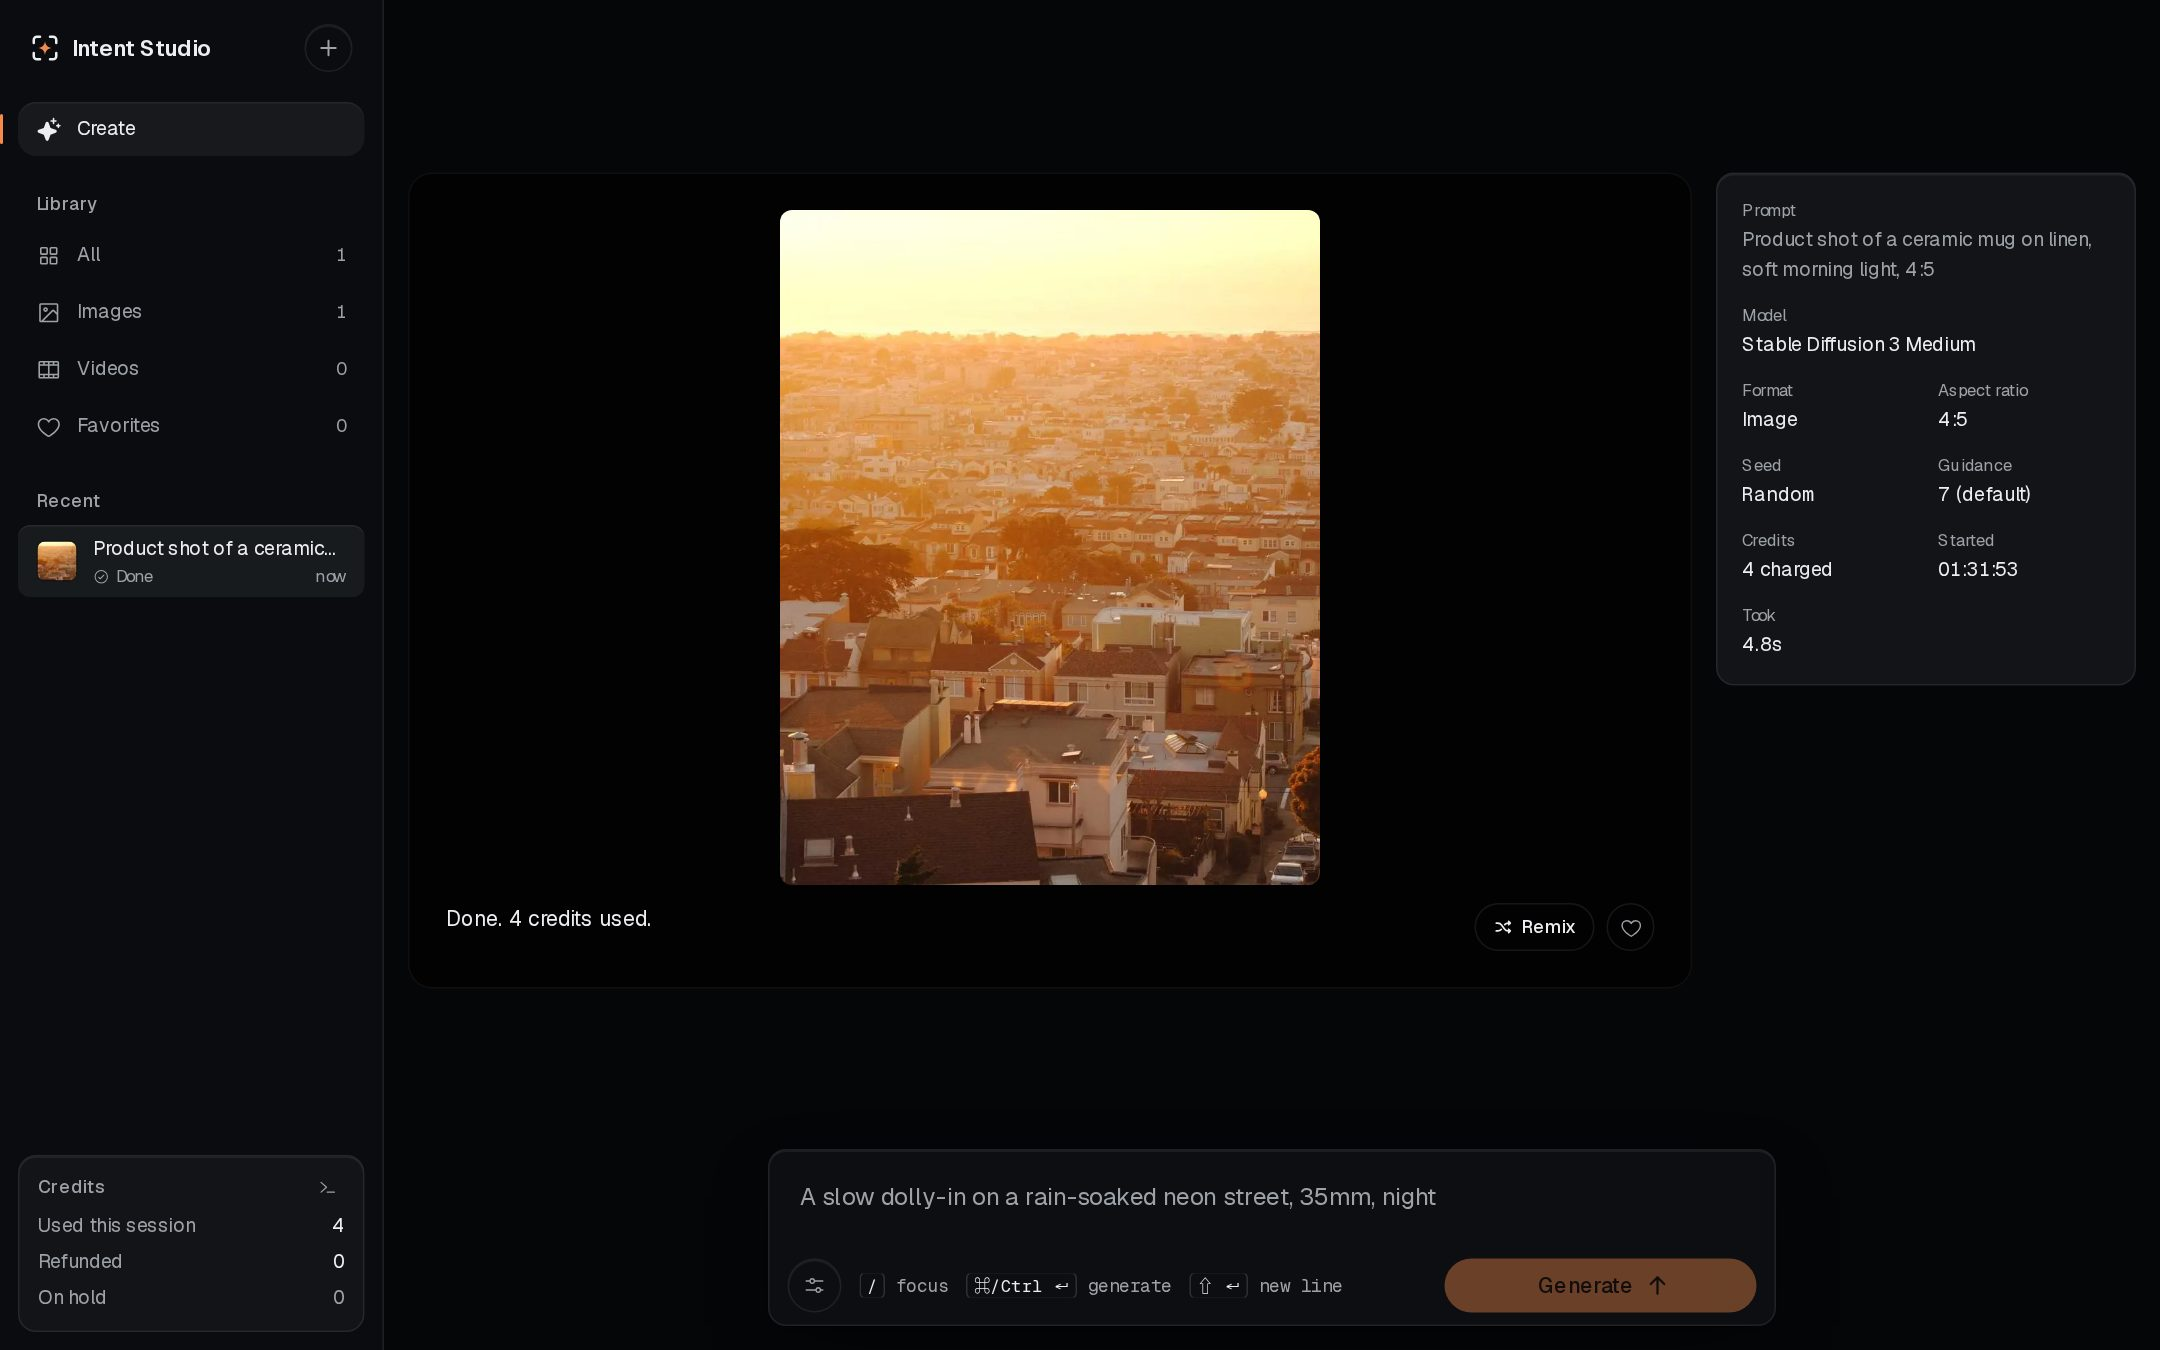
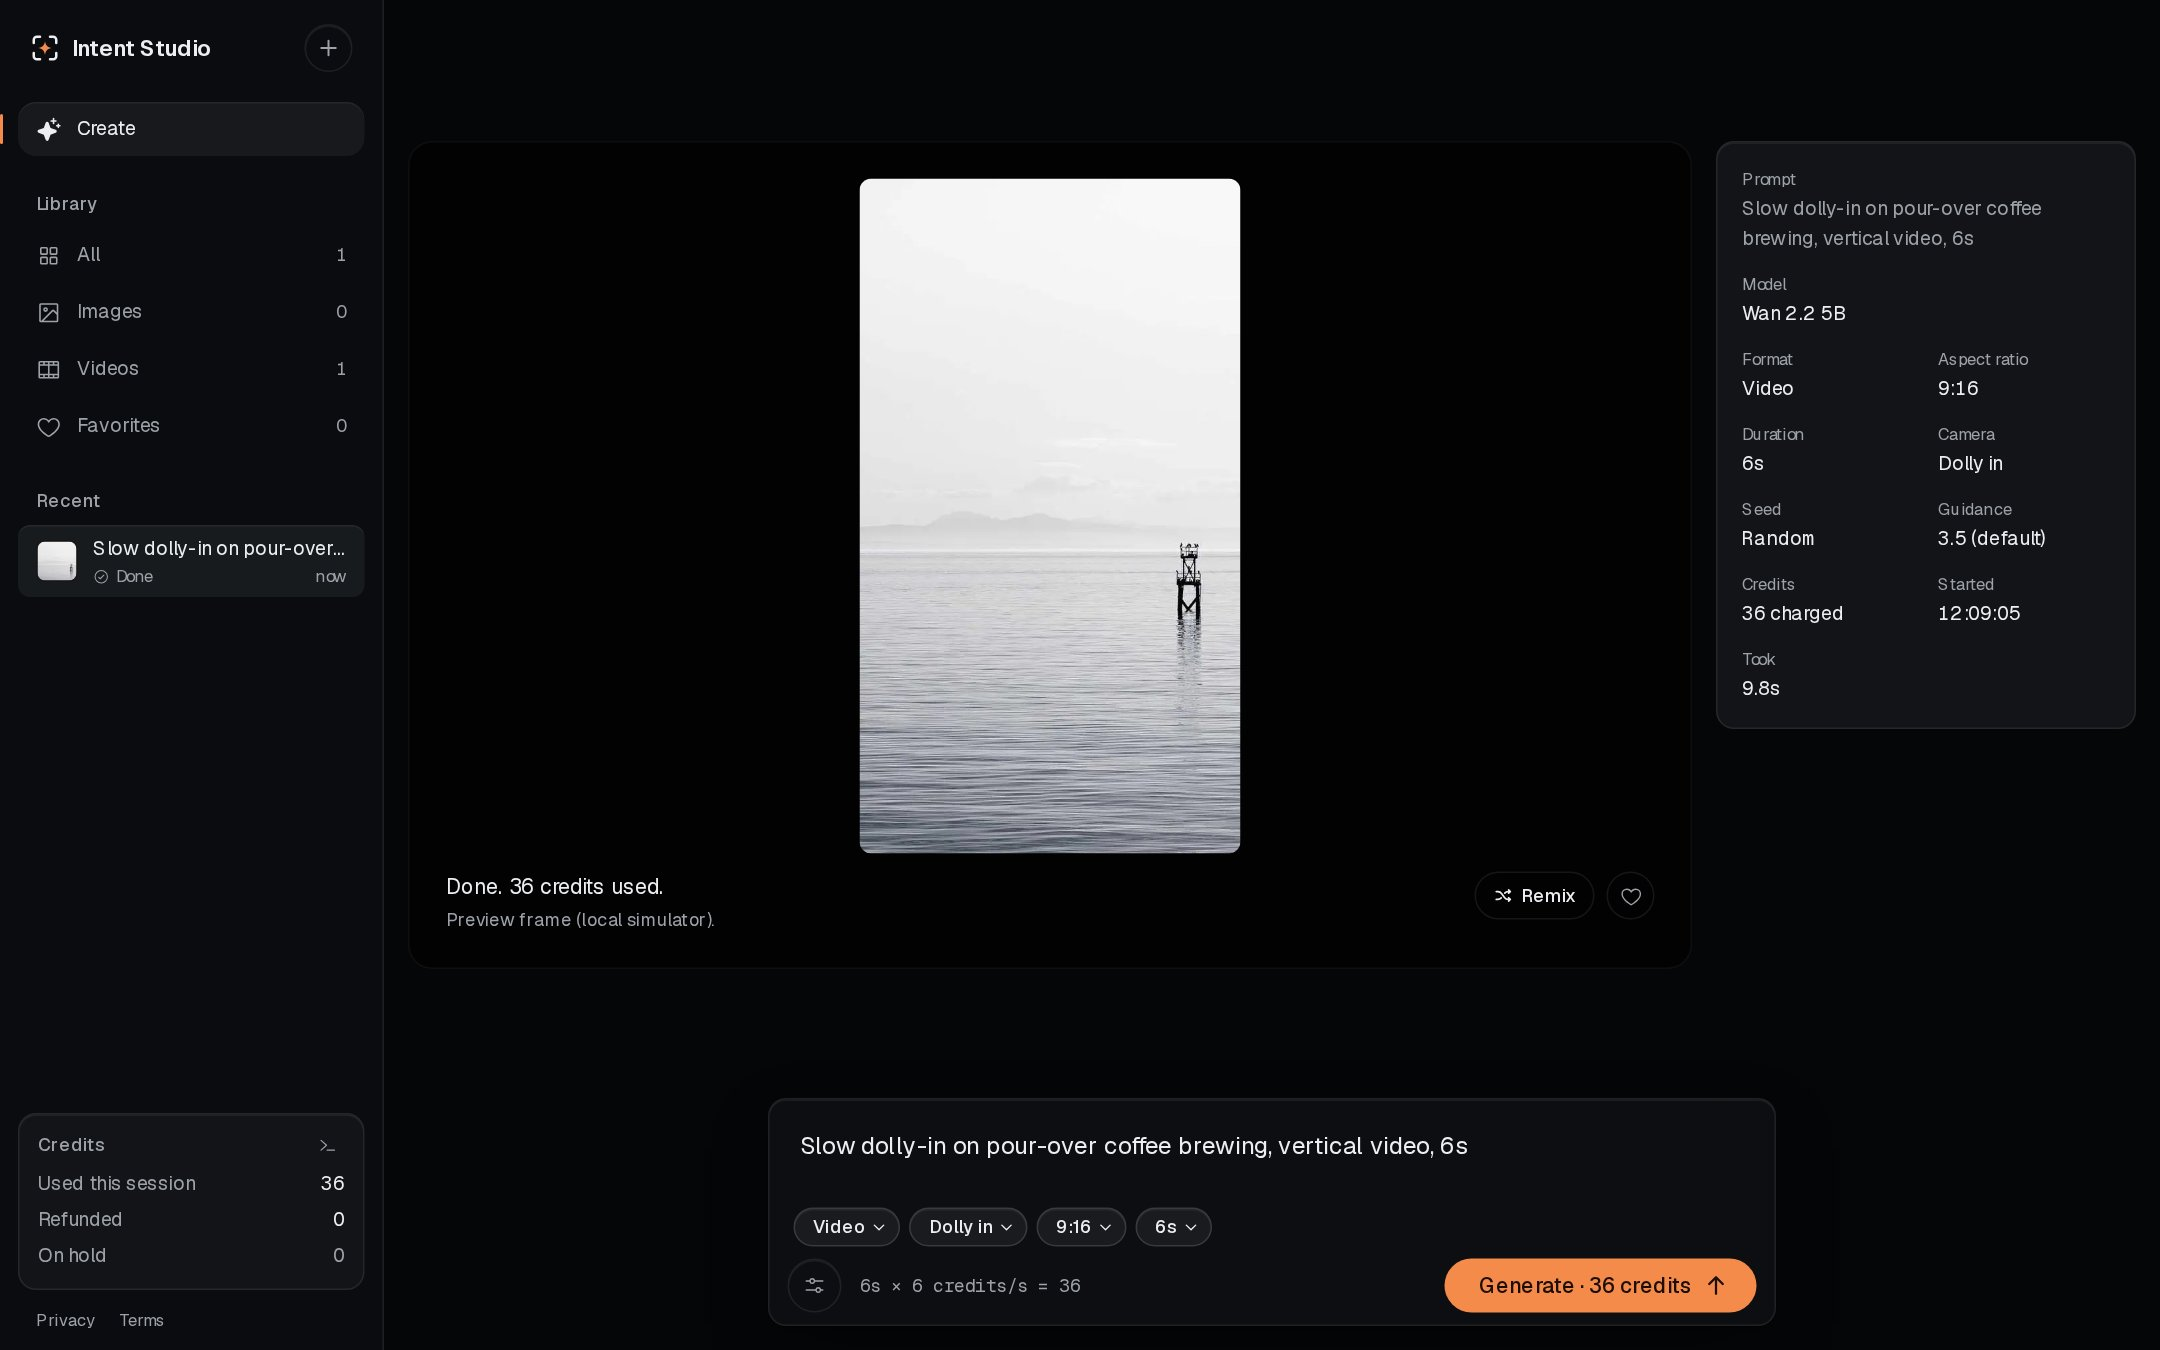
docs: refresh README and screenshots
Retake the studio and run screenshots from the current UI (guest, local
mode) and bring the README in line with the code: the security-definer
merge, Google account-conflict sign-in, the remote and sign-in test suites,
legal pages, dev log and WebP presets.

diff --git a/README.md b/README.md
@@ -159,7 +159,7 @@ sequenceDiagram
 ```
 
 - **Upgrade in place.** A guest *links* Google or an email to their anonymous user. The user id doesn't change, so history, balance and start frames carry over with no data migration and no RLS change.
-- **Existing accounts.** Signing in to an account that already exists switches users. The guest's *finished* runs move across via `merge_anonymous_history`; **credits never move**, and runs still holding credits settle with the guest, so a merge can't launder a refund.
+- **Existing accounts.** Signing in to an account that already exists switches users. When linking Google reports the account already exists (`email_exists`, `identity_already_exists`, `user_already_exists`), the guest signs in to it instead, at most once per 5 minutes. The guest's *finished* runs move across via `merge_anonymous_history`; **credits never move**, and runs still holding credits settle with the guest, so a merge can't launder a refund.
 - **Credits.** Guests start with **8**. A permanent account receives **40 exactly once** in its life (`signup_grant_at`), whether it signed up directly or upgraded from a guest.
 - **Privacy on shared devices.** The offline history cache records which account owns it; a different account or a sign-out clears it before anything renders, and replies sent as a previous account are dropped.
 
@@ -173,6 +173,7 @@ sequenceDiagram
 | IDOR on cancel | Ownership checked in the route **and** inside `cancel_generation(id, user)` | `[id]/cancel/route.ts` |
 | Direct table writes | No write policies; `INSERT/UPDATE/DELETE` revoked from `anon` and `authenticated` | `…_security_hardening.sql` |
 | Privileged functions from the browser | `EXECUTE` granted only to `service_role`; `search_path = ''` | all migrations |
+| Reading `auth.users` during a merge | `merge_anonymous_history` is `SECURITY DEFINER` (hosted `service_role` can't read `auth`), callable by `service_role` only, every name schema-qualified | `…_merge_security_definer.sql` |
 | Credit farming | 8-credit guests, a once-per-account 40 grant, history-only merges, 3 active runs per user | `…_accounts.sql` |
 | Forged merge | Server verifies both tokens with the auth server; source must be anonymous, target permanent | `/api/account/merge` |
 | Request flooding | 15 writes / 10 min per user **and** per IP, stored in Postgres, fails closed, `429` + `Retry-After` | `rate_limit_hit` |
@@ -255,8 +256,9 @@ npm run build
 
 | Suite | What it proves |
 |---|---|
-| `lib/db.test.ts` | Applies the **real migrations** to PGlite (Postgres in WASM) with stubbed Supabase schemas. Holds, exactly-once settlement, the status/credit constraint, the stale sweep, batches, the active-run cap, rate limits, storage policies and quota, the 402 fallback refund, RLS for cross-user reads/writes/RPCs, the 8/40 grants, and history-only merges. No Docker, no network. |
+| `lib/db.test.ts` | Applies the **real migrations** to PGlite (Postgres in WASM) with stubbed Supabase schemas. Holds, exactly-once settlement, the status/credit constraint, the stale sweep, batches, the active-run cap, rate limits, storage policies and quota, the 402 fallback refund, RLS for cross-user reads/writes/RPCs, the 8/40 grants, and history-only merges (run as `service_role`, which can't read `auth.users`, as on hosted Supabase). No Docker, no network. |
 | `lib/logic.test.ts` | Parser detection, negation and clamping, the override trust boundary, start-frame path allow-list against URL/traversal/`file://` payloads, remix, cheaper alternatives, batch pricing, state-machine invariants. |
+| `lib/remote.test.ts` | Every "that account already exists" answer from a Google link is recognised and switches to sign-in. |
 | `lib/store.test.ts` | Cached history is kept only for the account that owns it. |
 | `lib/gaze.test.ts` | Gaze stays inside the eye; smoothing is identical at 60Hz and 120Hz; the paw spring overshoots ~4% and settles in under 0.4s. |
 | `lib/supabase-key.test.ts` | Only a service-role key is accepted as the server key. |
@@ -280,6 +282,7 @@ app/
   api/account/merge/             guest history → signed-in account (history only)
   (studio)/@modal/(.)sign-in/    in-app navigation to /sign-in, intercepted into a modal over the studio
   (auth)/sign-in/                direct load or refresh of /sign-in: the full split page (no guest session)
+  (legal)/                       privacy policy and terms
   opengraph-image.tsx            social card rendered from the real parser
 components/                      composer, chips, advanced panel, start frames, stage, inspector, feed, library, sidebar, account
   auth/                          sign-in form, Iris (the creature), modal and page shells
@@ -288,11 +291,13 @@ lib/
   generation.ts                  state machine, pricing, batches, cheaper alternatives, simulator
   models.ts                      model registry and rate card (client + server)
   store.ts                       client store, auth state, polling, backoff, offline cache
+  dev-log.ts                     dev console event stream
   gaze.ts                        Iris's motion maths: gaze vector, frame-rate independent smoothing, damped spring
   remote.ts                      Supabase session, sign-in flows, authenticated fetch, start-frame storage
   server/                        service-role client, token checks, rate limiter, render worker
 supabase/migrations/             schema, RPCs, RLS, storage policies, quotas, accounts (applied in order)
-e2e/                             accessibility suite
+public/presets/                  preset photos, pre-sized 640px WebP served as static files
+e2e/                             accessibility and sign-in suites
 ```
 
 ## Known limitations
@@ -308,4 +313,4 @@ e2e/                             accessibility suite
 
 [MIT](LICENSE) © 2026 DevHusnainAi.
 
-Preset photos are from [Unsplash](https://unsplash.com/license) via [Lorem Picsum](https://picsum.photos), self-hosted in `public/presets`. Interface type is [Geist](https://vercel.com/font) (SIL Open Font License); icons are [Phosphor](https://phosphoricons.com).
+Preset photos are from [Unsplash](https://unsplash.com/license) via [Lorem Picsum](https://picsum.photos), self-hosted in `public/presets` as pre-sized WebP (served as static files, outside Next's image optimizer). Interface type is [Geist](https://vercel.com/font) (SIL Open Font License); icons are [Phosphor](https://phosphoricons.com).
